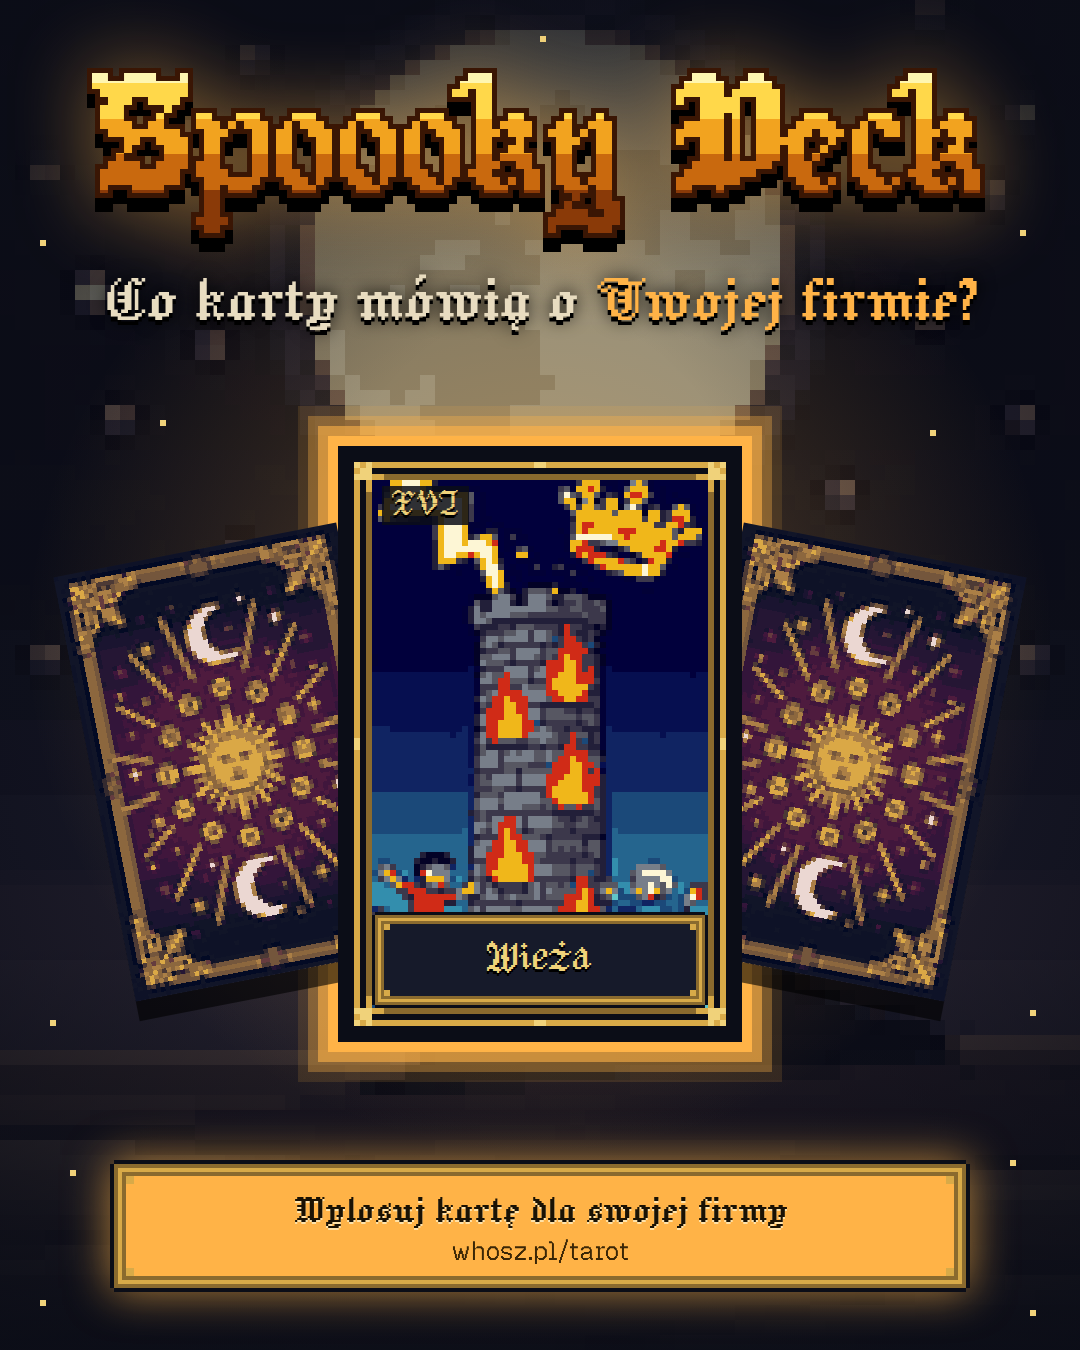
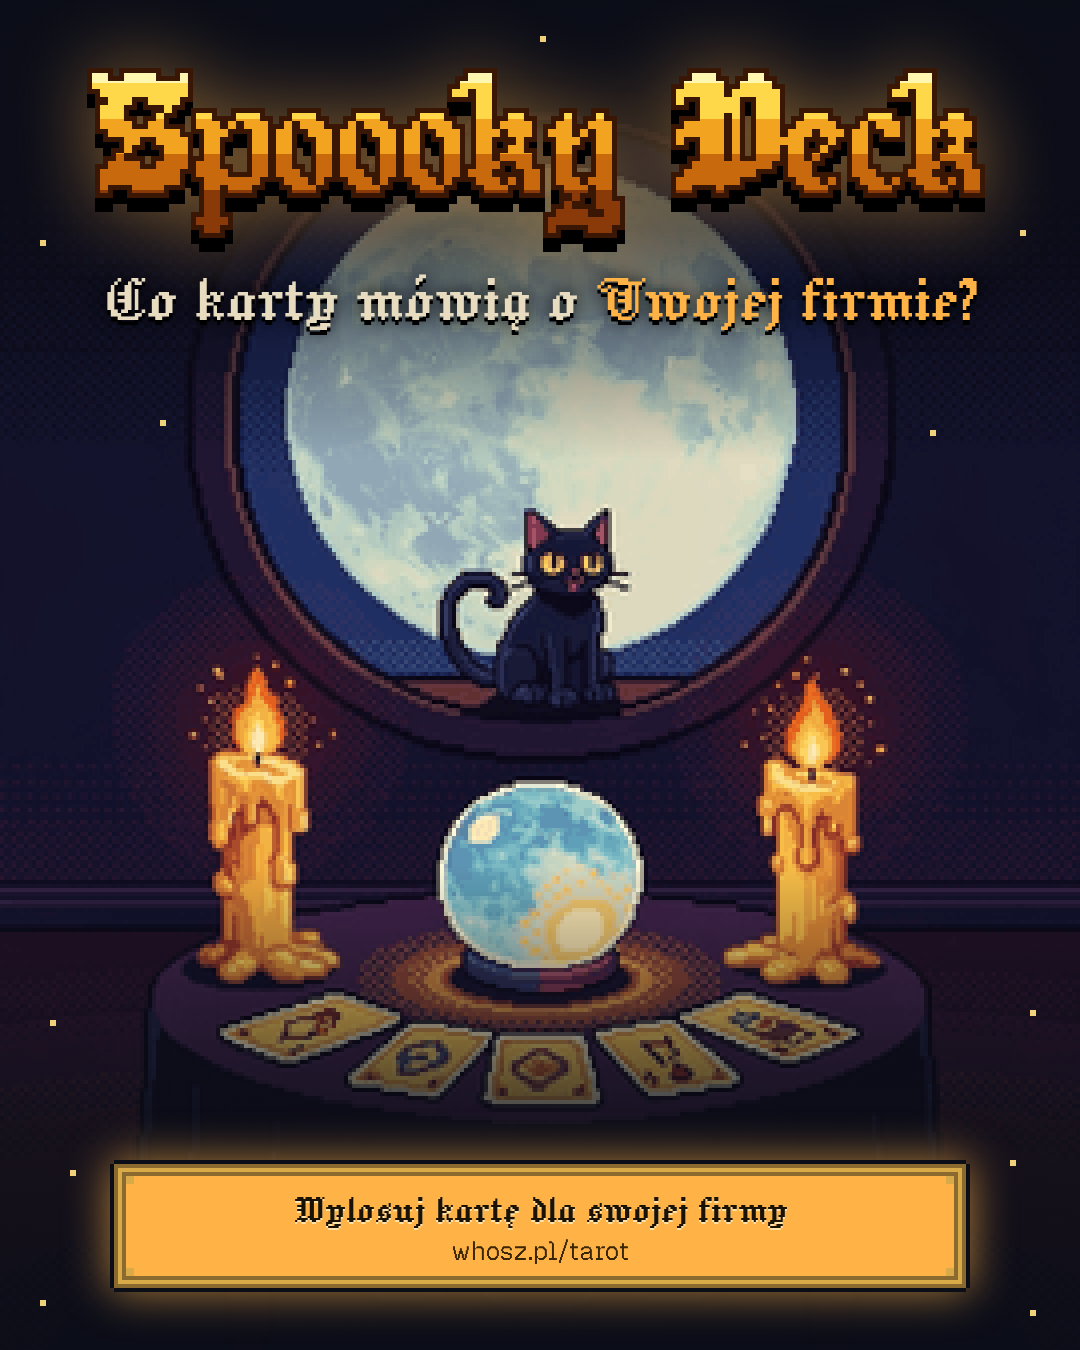
LinkedIn promo image: AI-generated fortune teller's table scene (Flux 2 Pro), pixelated, with the gold title and CTA; generator scripts

diff --git a/tools/ai/promo.py b/tools/ai/promo.py
@@ -1,0 +1,27 @@
+"""python3 tools/ai/promo.py <a|b|c> [seed]: generates a promo scene (Flux 2 Pro via Replicate, 4:5) into tools/ai/raw/promo_<name>_<seed>.png.
+Token: ~/.config/spooooky/replicate.env. About 0.03 USD per image at 1 MP."""
+import os, sys, json, time, urllib.request, urllib.error
+env = dict(l.strip().split('=', 1) for l in open(os.path.expanduser('~/.config/spooooky/replicate.env')) if '=' in l)
+TOKEN = env['REPLICATE_API_TOKEN']
+STYLE = ("Early 1990s retro video game pixel art, chunky large pixels, very limited palette of about 16 colors dominated by deep navy blue, purple and warm gold with orange accents, "
+         "thick dark outlines, flat color fills with a little ordered dithering, dark moody atmosphere with glowing candlelight, vertical poster composition, "
+         "the top fifth and the bottom fifth of the image are calm dark empty space, no text, no letters, no numbers, no border, no frame, no signature, no watermark")
+SCENES = {
+ 'a': "a mysterious round fortune teller's table in the middle of a dark room, a glowing crystal ball and a fan of tarot cards on it, tall melting candles on both sides, a huge pale full moon in a round window behind, a small black cat sitting on the table",
+ 'b': "a dark cozy start-up office at night, a laptop and a coffee mug on a wooden desk, five glowing golden tarot cards floating in the air above the desk, candles on the desk, a huge pale full moon outside a big window, mysterious purple fog",
+ 'c': "a hooded fortune teller without a visible face sitting at a table and holding up one glowing golden tarot card towards the viewer, swirling purple fog, tall candles, stars and a crescent moon in the dark sky behind",
+}
+def call(url, data=None):
+    for _ in range(10):
+        req = urllib.request.Request(url, data=json.dumps(data).encode() if data else None, headers={'Authorization': f'Bearer {TOKEN}', 'Content-Type': 'application/json', 'Prefer': 'wait=60'})
+        try: return json.load(urllib.request.urlopen(req, timeout=300))
+        except urllib.error.HTTPError as e:
+            if e.code == 429: time.sleep(12); continue
+            print('HTTP', e.code, e.read()[:200]); sys.exit(2 if e.code == 402 else 3)
+name, seed = sys.argv[1], int(sys.argv[2]) if len(sys.argv) > 2 else 1
+inp = {'prompt': f"{STYLE}. Scene: {SCENES[name]}.", 'aspect_ratio': '4:5', 'resolution': '1 MP', 'output_format': 'png', 'seed': seed}
+pred = call('https://api.replicate.com/v1/models/black-forest-labs/flux-2-pro/predictions', {'input': inp})
+while pred['status'] in ('starting', 'processing'): time.sleep(2); pred = call(pred['urls']['get'])
+if pred['status'] != 'succeeded': print(name, pred['status'], str(pred.get('error'))[:200]); sys.exit(1)
+out = pred['output']; out = out[0] if isinstance(out, list) else out
+os.makedirs('tools/ai/raw', exist_ok=True); path = f'tools/ai/raw/promo_{name}_{seed}.png'; urllib.request.urlretrieve(out, path); print(path)
